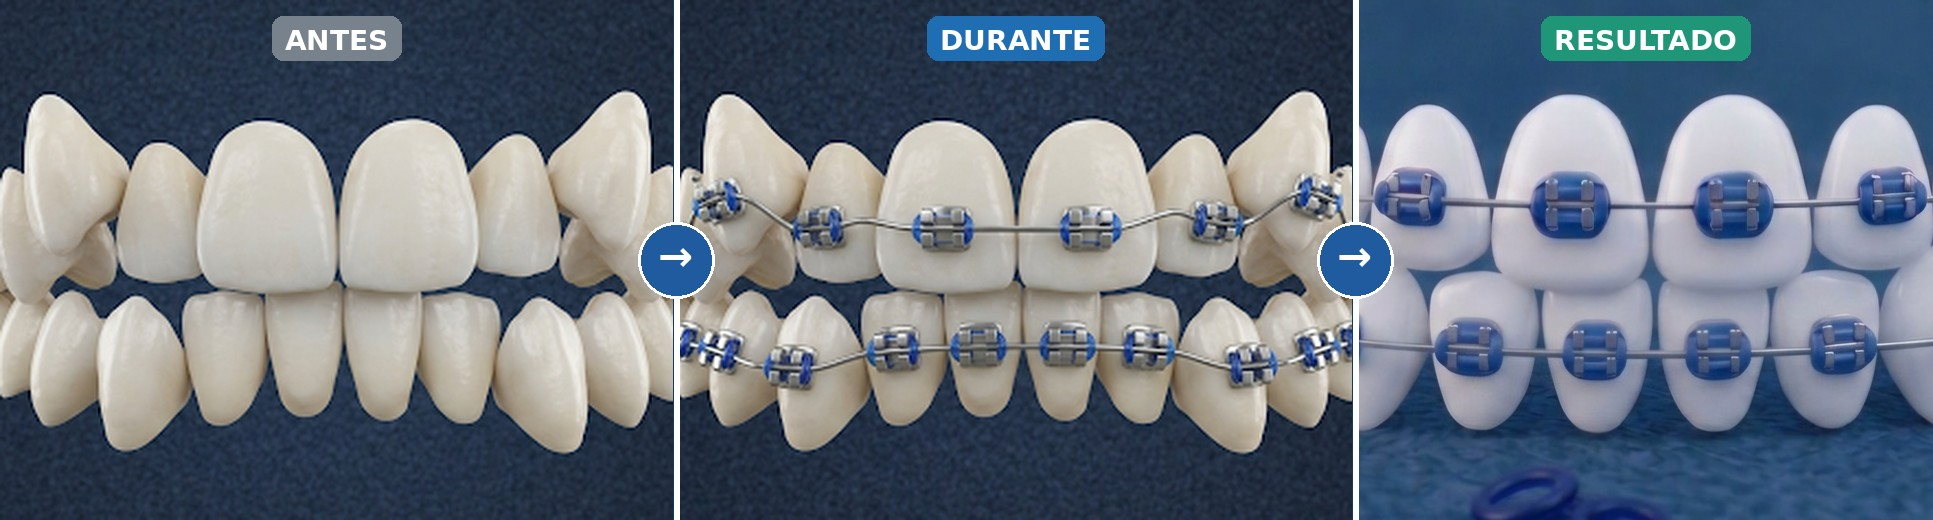
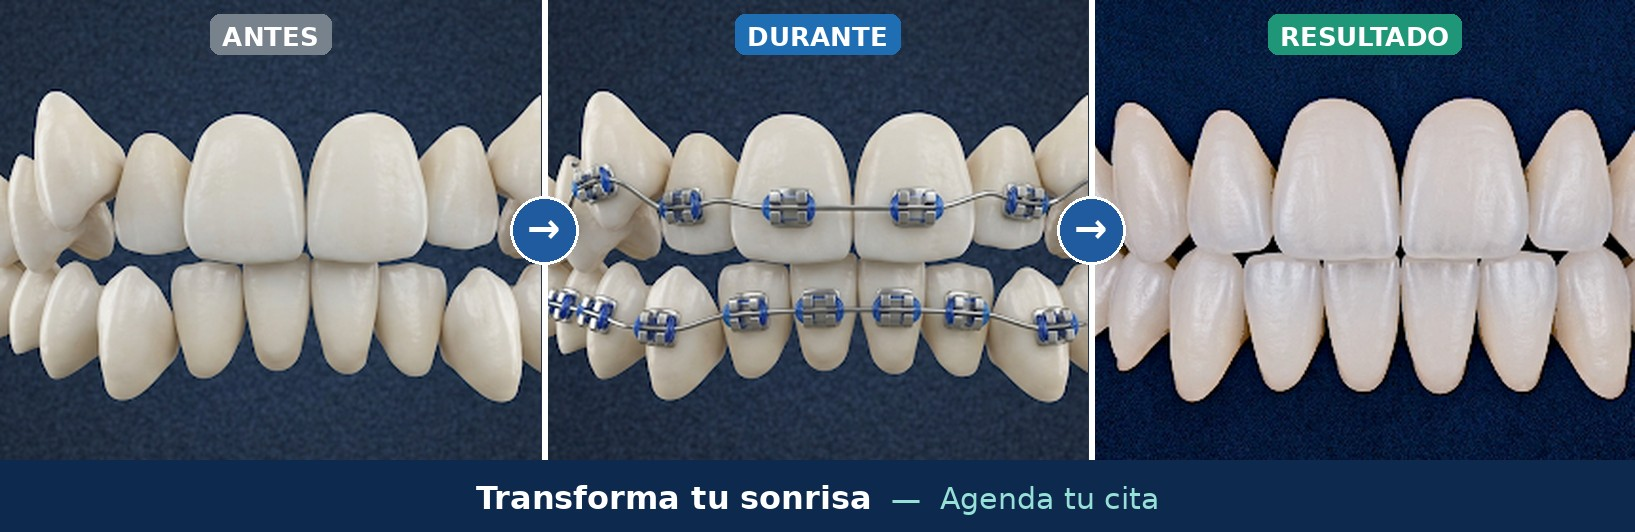
Add files via upload

diff --git a/index.html b/index.html
@@ -61,8 +61,13 @@
 *{box-sizing:border-box; margin:0; padding:0}
 html{scroll-behavior:smooth}
 body{font-family:'Inter',system-ui,-apple-system,sans-serif; background:#123a68; color:var(--tinta); line-height:1.5; -webkit-font-smoothing:antialiased; padding-bottom:96px; background-image:linear-gradient(rgba(16,48,88,.42),rgba(11,36,68,.62)),var(--bgtex); background-attachment:fixed; background-size:cover}
-.hero-foto{margin:1.2rem auto 0; width:100%; max-width:560px; border-radius:18px; overflow:hidden; box-shadow:var(--sombra); border:4px solid var(--azul); line-height:0}
-.hero-foto img{width:100%; height:auto; display:block; aspect-ratio:1933/520; border-radius:13px}
+.hero-foto{position:relative; margin:1.2rem auto 0; width:100%; max-width:560px; border-radius:18px; overflow:hidden; box-shadow:var(--sombra); border:4px solid var(--azul); line-height:0; cursor:pointer; -webkit-tap-highlight-color:transparent}
+.hero-foto img{width:100%; height:auto; display:block; aspect-ratio:1635/532; border-radius:13px}
+.hero-foto .hero-zoom{position:absolute; top:8px; right:8px; background:rgba(15,50,92,.82); color:#fff; font-size:.66rem; font-weight:700; padding:.28rem .55rem; border-radius:999px; line-height:1.2; letter-spacing:.02em}
+.hero-foto .hero-cap{position:absolute; left:0; right:0; bottom:0; display:flex; align-items:center; justify-content:space-between; gap:.5rem; padding:.7rem .85rem .6rem; background:linear-gradient(transparent, rgba(15,50,92,.9)); line-height:1.2}
+.hero-foto .hero-cap b{color:#fff; font-family:'Fredoka'; font-weight:600; font-size:.98rem}
+.hero-foto .hero-cap span{color:#bfe6df; font-weight:800; font-size:.8rem; white-space:nowrap}
+.ad-full{width:100%; border-radius:12px; display:block; margin:.2rem 0 1rem}
 img{max-width:100%; display:block}
 button{font-family:inherit; cursor:pointer; border:none}
 input{font-family:inherit}
@@ -259,7 +264,11 @@ h1,h2,h3{line-height:1.15}
   <button class="doc-btn" onclick="openBrackets()">🦷 ¿Qué son los brackets?</button>
   <button class="doc-btn" onclick="openDoctor()">👨⚕️ Conoce a tu ortodoncista</button>
   <button class="doc-btn" onclick="openUbicacion()">📍 Dónde encontrarnos</button>
-  <div class="hero-foto"><img id="heroTeeth" alt="Dientes con brackets"/></div>
+  <div class="hero-foto" onclick="openAntesDespues()" title="Ver completo">
+    <img id="heroTeeth" alt="Antes, durante y resultado del tratamiento"/>
+    <div class="hero-zoom">🔍 Ver completo</div>
+    <div class="hero-cap"><b>Transforma tu sonrisa</b><span>Agenda tu cita ›</span></div>
+  </div>
 </header>
 
 <main class="wrap">
@@ -319,6 +328,6 @@ var BR_PREMIUM="bracket-premium.png";
 var BR_INTERACTIVE="bracket-interactive.png";
 var DENTI_LOGO="dentilike-logo.png";
 var DOCTOR_IMG="doctor.jpg";
[2 lines of base64/hex data omitted]
 </body>
 </html>